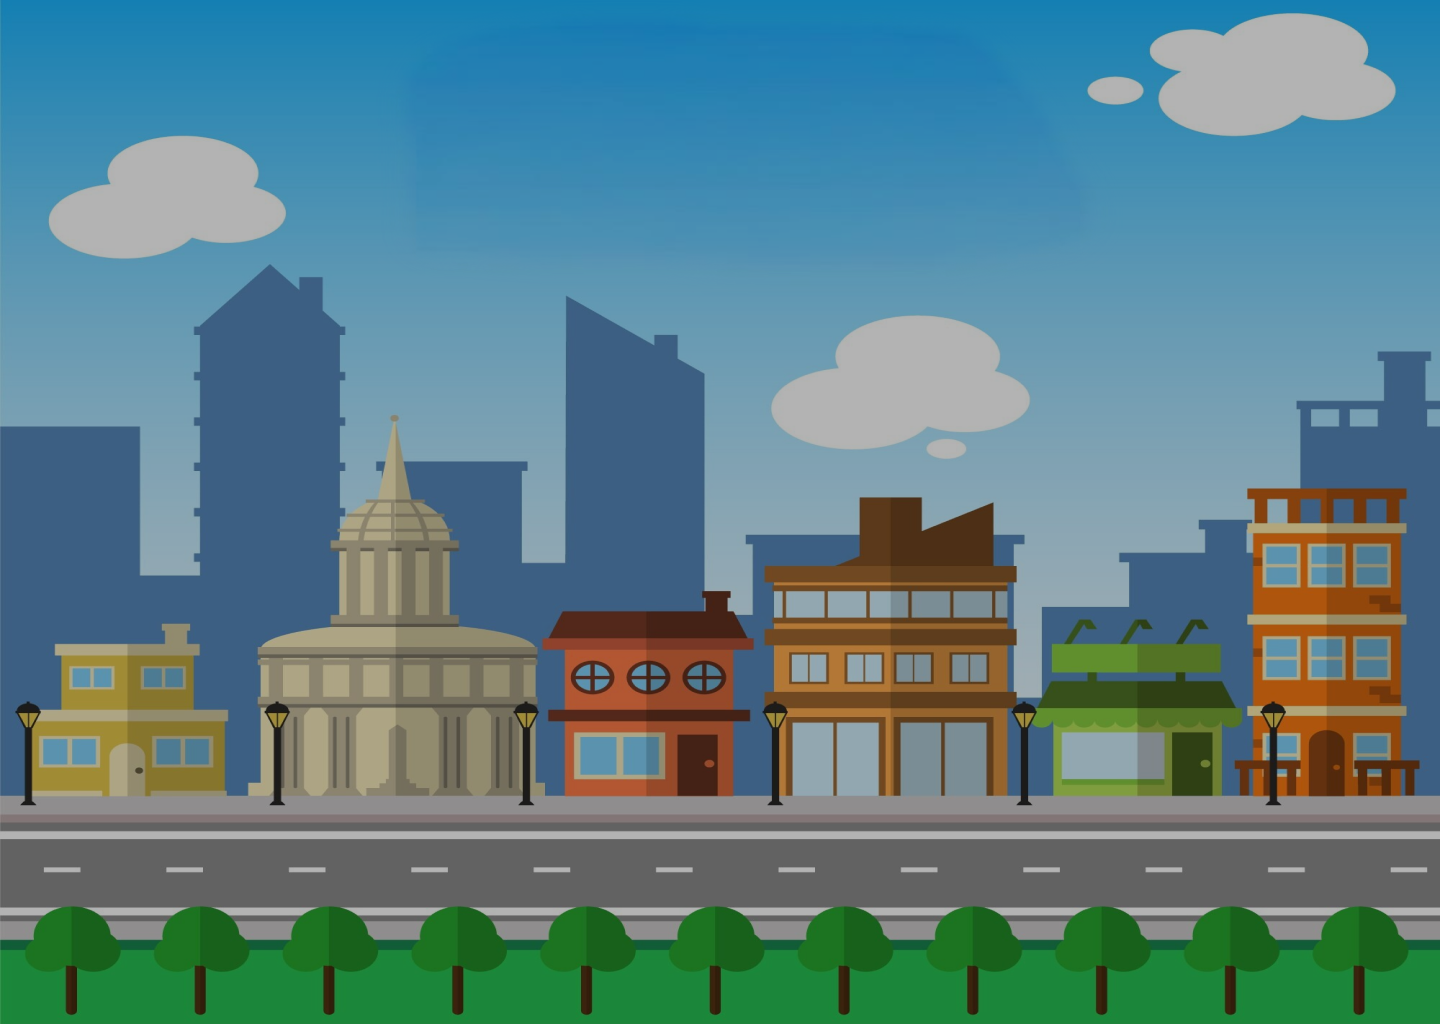
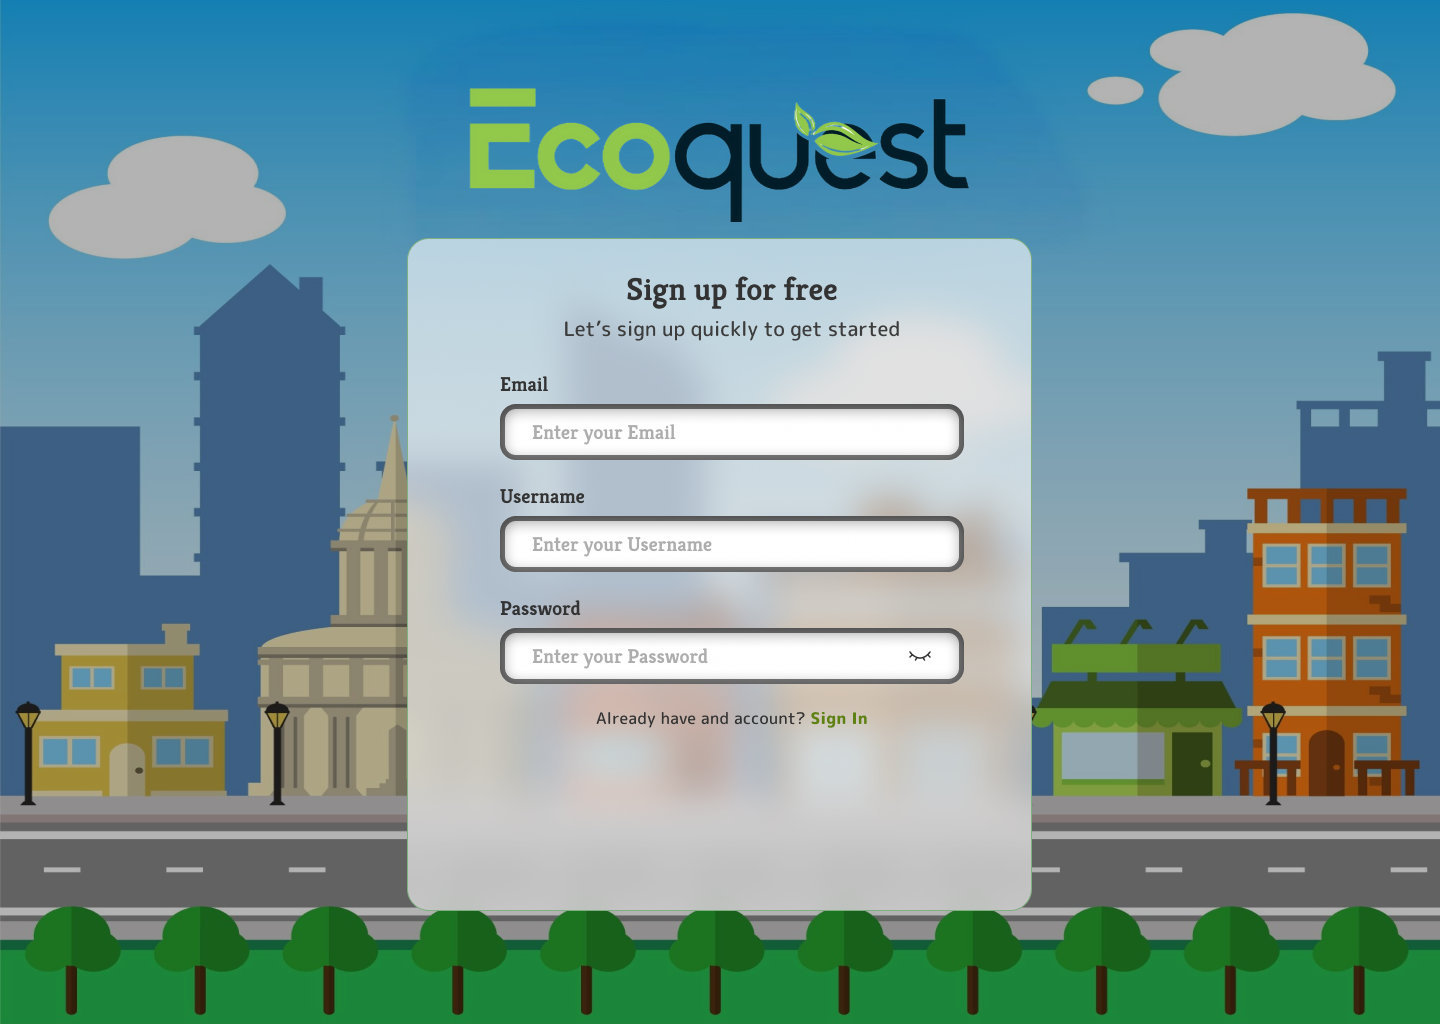
feat/onboarding-2

Changed region(s): [[0.2812, 0.0625, 0.7188, 0.9062]]

diff --git a/src/Game/partials/common.js b/src/Game/partials/common.js
@@ -2,10 +2,62 @@ const whiteBackground = (scene) => {
   const { width, height } = scene.scale;
 
   //White Background
-  const whiteBack = scene.add.graphics();
-  whiteBack.fillStyle(0xffffff, 1.0);
-  whiteBack.fillRect(0, 0, width, height);
+  scene.add.rectangle(width / 2, height / 2, width, height, 0xffffff);
 };
+
+const coloredBackground = (scene, color) => {
+  const { width, height } = scene.scale;
+
+  //White Background
+  scene.add.rectangle(width / 2, height / 2, width, height, color);
+};
+
+const addSprite = (scene, image, transform) => {
+  const defaultTransform = {
+    x: 0,
+    y: 0,
+    width: 100,
+    height: 100,
+    originX: 0.5,
+    originY: 0.5,
+  };
+  let targetTrasnform = {
+    ...defaultTransform,
+    ...transform,
+  };
+  const sprite = scene.add
+    .image(targetTrasnform.x, targetTrasnform.y, image)
+    .setOrigin(targetTrasnform.originX, targetTrasnform.originY);
+  const aspectRatio = sprite.width / sprite.height;
+
+  targetTrasnform = {
+    ...targetTrasnform,
+    width: sprite.width,
+    height: sprite.height,
+  };
+  if (targetTrasnform.ratioFlag !== undefined) {
+    if (targetTrasnform.ratioFlag) {
+      targetTrasnform.width = targetTrasnform.height * aspectRatio;
+    } else {
+      targetTrasnform.height = targetTrasnform.width / aspectRatio;
+    }
+  }
+  sprite.setDisplaySize(targetTrasnform.width, targetTrasnform.height);
+
+  // Calculate aspect ratios
+  // const imageAspect = sprite.width / sprite.height;
+  // const screenAspect = width / height;
+
+  // console.log(imageAspect, screenAspect);
+  // if (imageAspect > screenAspect) {
+  //   // Image is wider than the screen
+  //   background.setDisplaySize(height * imageAspect, height);
+  // } else {
+  //   // Image is taller than the screen
+  //   background.setDisplaySize(width, width / imageAspect);
+  // }
+};
+
 const scaleBackground = (scene) => {
   const { width, height } = scene.scale;
   const background = scene.add.image(width / 2, height / 2, "Background");
@@ -14,13 +66,13 @@ const scaleBackground = (scene) => {
   const imageAspect = background.width / background.height;
   const screenAspect = width / height;
 
-  console.log(imageAspect, screenAspect);
   if (imageAspect > screenAspect) {
     // Image is wider than the screen
-    background.setDisplaySize(height * imageAspect, height);
+    background.setDisplaySize(width, width / imageAspect);
   } else {
     // Image is taller than the screen
-    background.setDisplaySize(width, width / imageAspect);
+    background.setDisplaySize(height * imageAspect, height);
   }
+  return background;
 };
-export { scaleBackground, whiteBackground };
+export { scaleBackground, whiteBackground, addSprite, coloredBackground };

diff --git a/src/Game/partials/onBoarding.js b/src/Game/partials/onBoarding.js
@@ -1,0 +1,60 @@
+const styleDialog = (
+  scene,
+  dialogBackground,
+  usernameInput,
+  passwordInput,
+  signUpButton
+) => {
+  const resizeDialog = () => {
+    const width = scene.scale.width;
+    const height = scene.scale.height;
+
+    const dialogWidth = Math.min(400, width * 0.8);
+    const dialogHeight = Math.min(300, height * 0.6);
+
+    // Resize and reposition elements
+    dialogBackground.setSize(dialogWidth, dialogHeight);
+    usernameInput.setPosition(dialogWidth / 2, 120);
+    passwordInput.setPosition(dialogWidth / 2, 170);
+    signUpButton.setPosition(dialogWidth / 2, 220);
+  };
+
+  // Listen for resize events
+  scene.scale.on("resize", resizeDialog);
+  resizeDialog(); // Initial call to set sizes
+};
+
+const createInputField = (scene, x, y, placeholder, isPassword = false) => {
+    const inputField = scene.add.dom(x, y).createElement('input');
+    inputField.node.type = isPassword ? 'password' : 'text'; // Set the type
+    inputField.node.placeholder = placeholder; // Set the placeholder
+
+    // Apply styles directly to the DOM node
+    Object.assign(inputField.node.style, {
+      width: '200px',
+      height: '30px',
+      fontSize: '16px',
+      color: '#fff',
+      backgroundColor: '#333',
+      border: '1px solid #fff',
+      borderRadius: '5px',
+      padding: '5px',
+    });
+
+    // Add input field to the scene
+    scene.add.existing(inputField);
+    return inputField;
+};
+
+const onSignUp = (usernameInput, passwordInput) => {
+  const username = usernameInput.domElement.value;
+  const password = passwordInput.domElement.value;
+
+  if (username && password) {
+    console.log("Signing up:", { username, password });
+    // Implement your sign-up logic here (e.g., send to server)
+  } else {
+    console.error("Please fill in both fields.");
+  }
+};
+export { styleDialog, createInputField, onSignUp };

diff --git a/src/Game/scenes/OnBoardingScene.js b/src/Game/scenes/OnBoardingScene.js
@@ -1,5 +1,16 @@
 import assetPack from "../packs/onbarding-asset-pack.json";
-import { scaleBackground } from "../partials/common";
+import Phaser from "phaser";
+import {
+  addSprite,
+  coloredBackground,
+  scaleBackground,
+  whiteBackground,
+} from "../partials/common";
+import {
+  createInputField,
+  onSignUp,
+  styleDialog,
+} from "../partials/onBoarding";
 
 const createOnBoardingScene = () => {
   return {
@@ -11,7 +22,39 @@ const createOnBoardingScene = () => {
     },
 
     create: function () {
+
+      coloredBackground(this, 0x000000);
       scaleBackground(this);
+
+      // Create a background for the dialog
+      const dialogBackground = this.add
+        .rectangle(400, 300, 400, 300, 0x222222)
+        .setOrigin(0.5)
+        .setStrokeStyle(2, 0xffffff);
+
+
+      // Create input fields
+      const usernameInput = createInputField(this, 400, 320, "Username");
+      const passwordInput = createInputField(this, 400, 370, "Password", true);
+      console.log(usernameInput.node);
+      // Create a sign-up button
+      const signUpButton = this.add
+        .text(400, 420, "Sign Up", { fontSize: "24px", fill: "#fff" })
+        .setOrigin(0.5)
+        .setInteractive()
+        .on("pointerdown", () => onSignUp(usernameInput, passwordInput))
+        .on("pointerover", () => signUpButton.setStyle({ fill: "#ff0" }))
+        .on("pointerout", () => signUpButton.setStyle({ fill: "#fff" }));
+
+      // Style the dialog
+      styleDialog(
+        this,
+        dialogBackground,
+        usernameInput,
+        passwordInput,
+        signUpButton
+      );
+
     },
   };
 };
